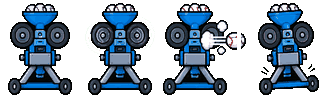
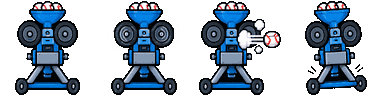
손잡다 야구: 점검 반영 (불펜 등판, 3루타 그림, 경기 끝 미리 보임, 미니게임 도루 귀루·코스·번트, 가방 나눔, 모자 옆머리, 얼굴 부위·동작 그림 다시 자르기, 건물 그림, 구속 훈련), 캐시 v92
Claude-Session: https://claude.ai/code/session_01AtpkBHbF1Q23UFzgPgc2M4

diff --git a/baseball/js/mini.js b/baseball/js/mini.js
@@ -153,6 +153,9 @@ function mgPrep(){
   const PT = [['빠른 공', 740, 840], ['보통 공', 860, 960], ['느린 커브', 1000, 1120]];
   const p = PT[Math.floor(Math.random() * PT.length)];
   st.pitch = { name: p[0], T: Math.round(mgRand(p[1], p[2])) };
+  // 공이 오는 코스: 다섯 군데 가운데 무작위 (동그라미도 그 자리로), 커브는 휘어 들어옴
+  st.aim = [[44, 70], [52, 73], [60, 70], [46, 77], [58, 77]][Math.floor(Math.random() * 5)];
+  st.bend = p[0] === '느린 커브' ? (Math.random() < 0.5 ? -7 : 7) : 0;
   if(st.g === 'bat'){
     st.loc = Math.floor(Math.random() * 3);
     const h = Math.random() < 0.65 ? st.loc : Math.floor(Math.random() * 3);
@@ -175,7 +178,7 @@ function mgPlay(){
   if(st.phase === 'end') return { ...base, q:`${g.n}${g.unit} 모두 끝났습니다. 합계 ${st.score}점. 1번을 누르면 결과를 봅니다.`, opts:[{ n:1, key:'k1', t:'결과 보기', act: v => mgFinish(v) }] };
   if(st.phase === 'live'){
     const lab = { bat:'스윙!', bunt:'번트!', steal:'뛰기!' }[st.g], k = st.g === 'bat' ? 1 : 3;
-    const q = st.g === 'steal' ? '투수를 읽으세요. 둥 소리에 바로 누르고, 딱딱 소리에는 참으세요.' : '삐 소리에 맞춰 누르세요.';
+    const q = st.g === 'steal' ? `투수를 읽으세요. 둥 소리(투구)에 바로 누르면 2루로 뜁니다.${st.lead ? ' 딱딱 소리(견제)가 나면 바로 눌러 귀루하세요.' : ' 짧은 리드라 견제는 그냥 참으면 됩니다.'}` : '삐 소리에 맞춰 누르세요.';
     return { ...base, q, opts: Array.from({ length:k }, (_, i) => ({ n: i + 1, key:'k' + (i + 1), t: lab, act: () => mgTap() })) };
   }
   if(st.g === 'bat'){
@@ -224,7 +227,10 @@ function mgPitchStart(){
 function mgTap(){
   const r = MG.run; if(!r || r.done) return;
   if(UI.make !== mgPlay){ mgStop(); return; }
-  if(r.g === 'steal') mgStealTap(performance.now()); else mgPitchEnd(performance.now());
+  const now = performance.now();
+  if(r.g === 'steal'){ mgStealTap(now); return; }
+  if(now < r.rel) return;   // 공을 놓기 전에 누른 것은 무시 (헛스윙으로 치지 않음)
+  mgPitchEnd(now);
 }
 function mgPitchEnd(tap){
   const r = MG.run, st = MG.st; if(!r || r.done || !st) return;
@@ -281,7 +287,7 @@ function mgBuntTier(e){
   if(e == null) return 'none';
   if(e === -1) return 'miss';
   const a = Math.abs(e) / mgTol();
-  return a <= 0.06 ? 'perfect' : a <= 0.12 ? 'good' : a <= 0.2 ? 'weak' : e < 0 ? 'miss' : 'pop';
+  return a <= 0.09 ? 'perfect' : a <= 0.18 ? 'good' : a <= 0.3 ? 'weak' : e < 0 ? 'miss' : 'pop';   // 번트는 공을 갖다 대기만 하면 되므로 폭을 넓게
 }
 function mgBuntRes(e, dir, def, timed = false, tier0){
   const tier = tier0 || mgBuntTier(e), max = mgBuntMax(dir, def), zone = ['1루 선상', '3루 선상', '투수 앞'][dir];
@@ -309,8 +315,10 @@ const MG_TELL = {
   pitch:['투수가 포수 사인에 고개를 끄덕이고 홈 쪽으로 어깨를 닫습니다.', '투수의 앞다리 무릎이 안쪽으로 모입니다.', '투수가 1루는 보지 않고 포수 미트만 봅니다.'],
   pick:['투수가 1루 쪽을 힐끗 봅니다.', '투수의 뒷발 뒤꿈치가 살짝 들립니다.', '투수가 공을 쥔 채 유난히 오래 멈춥니다.'],
 };
-const MG_LEAD_T = [3.30, 3.20, 3.10];   // 리드별 2루까지 걸리는 시간(초, 반응 시간 빼고)
-const MG_LEAD_RISK = [0, 0.05, 0.2];   // 견제가 오면 귀루하다 잡힐 확률
+const MG_LEAD_T = [3.15, 3.02, 2.90];   // 리드별 2루까지 걸리는 시간(초, 반응 시간 빼고)
+const MG_LEAD_RISK = [0, 0.03, 0.1];   // 고르기로 하기: 견제가 오면 귀루하다 잡힐 확률
+// 타이밍으로 하기: 견제가 오면 단추가 '귀루!'로 바뀌고 이 시간(초) 안에 누르면 세이프. 짧은 리드는 누르지 않아도 세이프
+const MG_BACK_WIN = [null, 0.75, 0.5];
 function mgMoves(){
   const n = mgPickW([45, 35, 20]), out = [];
   for(let i = 0; i < n; i++) out.push({ type:'pick' }); out.push({ type:'pitch' });
@@ -335,32 +343,34 @@ function mgLead(lead, via){
     run.timers.push(setTimeout(() => {
       if(MG.run !== run || run.done) return;
       run.cue = m.type; run.cueAt = m.at; run.mi = i;
-      if(m.type === 'pick') run.timers.push(setTimeout(() => mgPickoffEnd(run), 500 * sc));
+      if(m.type === 'pick') run.timers.push(setTimeout(() => mgPickoffEnd(run, i), (MG_BACK_WIN[run.lead] ? MG_BACK_WIN[run.lead] * 1000 : 500) * sc));
       else run.timers.push(setTimeout(() => mgStealEnd(run, null), (fast ? 450 : 1100)));
     }, Math.max(0, m.at - performance.now())));
   });
   st.phase = 'live';
   rerender();
 }
-// 견제가 지나감: 크게 리드했으면 가끔 잡힘, 아니면 1점
-function mgPickoffEnd(run){
+// 견제가 지나감: 귀루 단추를 제때 눌렀으면(짧은 리드는 저절로) 세이프 1점(큰 리드는 2점), 아니면 견제사
+function mgPickoffEnd(run, i){
   if(MG.run !== run || run.done) return;
-  if(Math.random() < MG_LEAD_RISK[run.lead]){ mgStealOut(run, `견제구! ${MG_LEAD[run.lead]} 리드라 귀루가 늦어 아웃.`); return; }
-  MG.st.survived++;
+  const backed = (run.backed || {})[i];
+  if(!backed && MG_BACK_WIN[run.lead]){ mgStealOut(run, `견제구! 귀루가 늦어 아웃. ${MG_LEAD[run.lead]} 리드에서는 견제가 오면 바로 눌러야 합니다.`); return; }
+  MG.st.survived += run.lead === 2 ? 2 : 1;
   run.cue = 'reset';
 }
 function mgStealTap(t){
   const run = MG.run, sc = mgFast() ? 0.12 : 1;
   // 시각으로 따짐 (타이머가 조금 늦게 와도 같은 판정): cur 이미 나온 마지막 동작 · next 아직 안 나온 동작
   const idx = run.moves.findIndex(m => m.at > t);
-  const cur = idx === -1 ? run.moves[run.moves.length - 1] : idx > 0 ? run.moves[idx - 1] : null, next = idx === -1 ? null : run.moves[idx];
+  const ci = idx === -1 ? run.moves.length - 1 : idx - 1, cur = ci >= 0 ? run.moves[ci] : null, next = idx === -1 ? null : run.moves[idx];
   if(cur && cur.type === 'pitch'){ mgStealEnd(run, (t - cur.at) / 1000); return; }
-  if(cur && cur.type === 'pick' && t < cur.at + 1200 * sc){ mgStealOut(run, '견제구인데 뛰었습니다. 견제사.'); return; }
-  // 아직 다음 동작 전: 견제가 올 차례면 걸리고, 투구 직전이면 미리 스타트(아주 일찍이면 들킴)
+  // 견제 중: 누르면 귀루 (제때면 세이프). 이미 귀루했으면 무시
+  if(cur && cur.type === 'pick' && t < cur.at + 1400 * sc){ (run.backed ||= {})[ci] = true; run.backAt = t; return; }
+  // 아직 다음 동작 전: 투구 직전이면 미리 스타트, 그보다 이르면 무시 (견제를 기다리는 중의 실수로 아웃되지 않게)
   if(!next){ mgStealEnd(run, null); return; }
-  if(next.type === 'pick'){ mgStealOut(run, '먼저 움직였다가 견제에 걸렸습니다.'); return; }
+  if(next.type === 'pick') return;
   const early = next.at - t;
-  if(early > 350 * sc){ mgStealOut(run, '너무 일찍 뛰어 투수에게 들켰습니다. 아웃.'); return; }
+  if(early > 350 * sc) return;
   mgStealEnd(run, -Math.min(0.15, early / 1000 / sc));
 }
 function mgStealOut(run, text){
@@ -382,7 +392,7 @@ function mgStealRes(lead, rt, timed){
   const runner = MG_LEAD_T[lead] + Math.max(-0.15, rt) * 1.05, catcher = mgRand(3.3, 3.6), margin = catcher - runner;
   const start = !timed ? '' : rt < 0.02 ? '스타트가 아주 빨랐습니다! ' : `반응 ${mgSec(rt * 1000)}초. `;
   if(margin <= 0) return { g:'steal', k:'out', pts: 0, lead, rt, margin, text:`${start}포수의 송구가 빨랐습니다. 2루에서 아웃.` };
-  const pts = 6 + Math.min(9, Math.round(margin * 40)) + sv;
+  const pts = 6 + Math.min(9, Math.round(margin * 40)) + sv + lead;
   return { g:'steal', k:'safe', pts, lead, rt, margin, text:`${start}2루 ${margin > 0.15 ? '여유 있게' : margin < 0.05 ? '간발의 차로' : ''} 세이프! ${pts}점.${bonus}`.replace('  ', ' ') };
 }
 function mgStealRead(run, via){

diff --git a/baseball/js/skin-mini.js b/baseball/js/skin-mini.js
@@ -32,13 +32,17 @@ function mgThumb(g, cls = ''){
 const mgRecChip = g => { const a = mgBest(g, 'tm'), b = mgBest(g, 'pick'); return a || b ? `${a ? `<em>최고 ${a.best}점</em>` : ''}${b ? `<em class="c">고르기 ${b.best}점</em>` : ''}` : '<em class="no">기록 없음</em>'; };
 
 /* ---------- 미니게임 목록 ---------- */
+// 팀 색으로 칠한 그림을 미리 만들어 둠: 처음 보이는 순간(슬라이딩 등)에 칠하지 않은 그림이 잠깐 보였다가 색이 바뀌지 않게
+function mgPreload(){ const col = mgCol(); ['batter', 'runner-s', 'run-b', 'slide', 'fielder-set', 'pitcher', 'pitcher-pick', 'mg-machine', 'mg-cards'].forEach(n => skTint(n, col)); }
 function mgHomeSkin(S){
+  mgPreload();
   const cards = (S.opts || []).filter(o => !o.hide && MG_GAMES[o.key]).map(o => `<button type="button" class="mg-card" data-sk="opt" data-n="${o.n}">${mgThumb(o.key)}<span class="tx"><b>${esc(o.t)}</b><small>${esc(MG_GAMES[o.key].short)}</small><span class="mg-rc">${mgRecChip(o.key)}</span></span></button>`).join('');
   const out = (S.opts || []).find(o => o.key === 'out');
   return `<div class="mg-cards">${cards}</div>${out ? `<div class="mback"><button type="button" class="gb b" data-sk="opt" data-n="${out.n}">${skIco('back')}${esc(out.t)}</button></div>` : ''}`;
 }
 /* ---------- 설명 화면 ---------- */
 function mgStartSkin(S){
+  mgPreload();
   const g = MG_GAMES[S.g], op = k => (S.opts || []).find(o => o.key === k && !o.hide);
   const tm = op('tm'), pk = op('pick'), hr = op('hear'), ls2 = op('list');
   const heard = (S.say || []).length && (S.say[0].s || S.say[0]) !== g.rules[0] ? `<div class="crmsg">${S.say.map(l => `<p>${esc(l.s || l)}</p>`).join('')}</div>` : '';
@@ -60,7 +64,7 @@ function mgPlaySkin(S){
   const stage = st.g === 'bat' ? mgCage(st) : st.g === 'bunt' ? mgBuntField(st) : mgStealField(st);
   // 알림 줄: 지금 할 일 또는 방금 결과
   const last = st.last, fresh = last && !live;
-  const msg = st.phase === 'read' && !fresh ? '투수의 움직임을 읽고 뛸지 고르세요.' : live ? (st.g === 'steal' ? '둥(투구)에 뛰고, 딱딱(견제)에는 참으세요!' : '삐 소리 · 노란 동그라미에 맞춰 누르세요!')
+  const msg = st.phase === 'read' && !fresh ? '투수의 움직임을 읽고 뛸지 고르세요.' : live ? (st.g === 'steal' ? (st.lead ? '투구면 뛰기! 견제가 오면 단추가 귀루!로 바뀝니다. 바로 누르세요.' : '투구(둥)에 바로 뛰세요! 짧은 리드라 견제는 참으면 됩니다.') : '삐 소리 · 노란 동그라미에 맞춰 누르세요!')
     : fresh ? last.text : st.g === 'bat' ? (st.mode === 'tm' ? '공 던지기를 누르면 피칭 머신이 던집니다.' : `코치: "${st.hint}"`) : st.g === 'bunt' ? mgDefText(st.def) + ' 방향을 고르세요.' : st.phase === 'read' ? '투수의 움직임을 읽고 뛸지 고르세요.' : '리드를 고르면 투수가 세트에 들어갑니다.';
   const msgCls = fresh ? (last.pts >= 10 ? 'top' : last.pts > 0 ? 'ok' : 'bad') : live ? 'live' : '';
   if(live && !SKM.raf) SKM.raf = requestAnimationFrame(mgTick);
@@ -97,11 +101,12 @@ function mgCage(st){
   if(L && !live && L.g === 'bat'){
     f = L.k === 'take' ? 0 : 2;
     const x1 = 50 + (L.x || 0) * 42, end = { hr:[x1, -8, .25], b3:[x1, 6, .3], b2:[x1, 10, .32], hit:[50 + (L.x || 0) * 34, 26, .4], foul:[L.e != null && L.e < 0 ? -6 : 106, 58, .5], whiff:[50, 112, 1.7], take:[50, 112, 1.7] }[L.k];
-    fx = `<span class="mg-fly k-${L.k}" style="--x0:${MGC.hit[0]}%;--y0:${MGC.hit[1]}%;--x1:${end[0]}%;--y1:${end[1]}%;--s1:${end[2]}"></span>`
+    fx = `<span class="mg-fly k-${L.k}" style="--x0:${(st.aim || MGC.hit)[0]}%;--y0:${(st.aim || MGC.hit)[1]}%;--x1:${end[0]}%;--y1:${end[1]}%;--s1:${end[2]}"></span>`
       + (MG_BAN_ROW[L.k] != null ? mgBan(MG_BAN_ROW[L.k]) : `<span class="mg-tx">지켜봄</span>`) + (L.dist ? `<b class="mg-dist">${L.dist}m</b>` : '') + (L.tier === 'perfect' ? '<b class="mg-perf">딱 맞음!</b>' : '');
   }
   const tag = !live && st.phase !== 'end' ? `<span class="mg-tag">${esc(st.mode === 'tm' ? '다음 공 · ' + st.pitch.name : '노릴 코스를 고르세요')}</span>` : '';
-  return `<div class="mg-st cage" id="mgSt"><span class="mg-ring${live ? ' on' : ''}" id="mgRing" style="${mgAt(MGC.hit)}"></span>
+  const aim = st.aim || MGC.hit;
+  return `<div class="mg-st cage" id="mgSt"><span class="mg-ring${live ? ' on' : ''}" id="mgRing" style="${mgAt(aim)}"></span>
     ${mgSpr('batter', live ? 0 : f, 4, 1, 0, 'bat-me' + (L && !live && f ? ' swung' : ''), '', 'mgBat')}
     ${mgSpr('mg-machine', live ? 1 : 0, 4, 1, 0, 'mach', mgAt([MGC.mach[0], MGC.mach[1] + 6]), 'mgMach')}
     <span class="mg-ball" id="mgBall" style="${mgAt(MGC.mach)}"></span>${fx}${tag}</div>`;
@@ -144,6 +149,7 @@ function mgStealField(st){
     } else fx = `<span class="mg-tx">출발 못함${L.pts ? ` +${L.pts}` : ''}</span>`;
   }
   return `<div class="mg-st fld steal" id="mgSt">${mgFielder([MGF.b1[0] + 6, MGF.b1[1] + 7])}${mgFielder([58, 30], 'ss')}${mgFielder([50, 95], 'c')}
+    ${live ? mgSpr('slide', 2, 4, 1, 0, 'run-me', mgAt([MGF.b1[0] - 1, MGF.b1[1] + 1]) + 'visibility:hidden;', 'mgDive') : ''}
     ${mgSpr('pitcher', 0, 4, 3, 0, 'pit', mgAt([MGF.mound[0], MGF.mound[1] + 1]), 'mgPit')}${mgSpr('pitcher-pick', 0, 4, 1, 0, 'pick', mgAt([MGF.mound[0] + 1, MGF.mound[1] + 1]) + 'visibility:hidden;', 'mgPick')}${runner}
     <span class="mg-ball sm" id="mgBall" style="${mgAt(MGF.mound)};opacity:0"></span>${fx}
     ${live ? '<span class="mg-cue" id="mgCue"></span>' : ''}</div>`;
@@ -163,8 +169,8 @@ function mgTickPitch(r, now){
   // 피칭 머신: 던지기 전 바퀴 돌기(1) → 발사(2) → 반동(3) → 멈춤(0)
   const mach = $('#mgMach'); if(mach){ const f = k < 0 ? 1 : k < 0.12 ? 2 : k < 0.35 ? 3 : 0; mach.style.backgroundPosition = `${f * 100 / 3}% 0%`; }
   if(k < 0){ ball.style.opacity = '0'; return; }
-  const kk = Math.min(k, 1.5), a = bat ? MGC.mach : [50, 53], b = bat ? MGC.hit : [50, 83];
-  const p = mgLerp(a, b, kk);
+  const st = MG.st || {}, kk = Math.min(k, 1.5), a = bat ? MGC.mach : [50, 53], b = bat ? (st.aim || MGC.hit) : [50, 83];
+  const p = mgLerp(a, b, kk); if(bat && st.bend) p[0] += Math.sin(Math.min(1, kk) * Math.PI * 0.9) * st.bend;   // 커브는 옆으로 휘어 들어옴
   ball.style.opacity = '1'; ball.style.left = p[0] + '%'; ball.style.top = p[1] + '%';
   ball.style.transform = `translate(-50%, -50%) scale(${bat ? 0.3 + kk * 1.1 : 0.7 + kk * 0.6})`;
   if(ring) ring.classList.toggle('hot', Math.abs(k - 1) < 0.1);
@@ -187,6 +193,11 @@ function mgTickSteal(r, now){
     if(picking) pk.style.backgroundPosition = `${(t < 200 ? 1 : t < 450 ? 2 : t < 700 ? 3 : 0) * 100 / 3}% 0%`; }
   if(ball){ ball.style.opacity = bp ? '1' : '0'; if(bp){ ball.style.left = bp[0] + '%'; ball.style.top = (bp[1] - 4) + '%'; } }
   if(run) run.style.backgroundPosition = `${Math.floor(now / 380) % 2 ? 100 / 3 : 0}% 0%`;
+  // 견제가 오는 동안: 단추가 '귀루!'로 바뀜. 누르면 주자가 1루로 슬라이딩(귀루)
+  const btn = document.querySelector('.mg-go.tap'), back = !!(m && m.type === 'pick' && (now - m.at) / sc < 900);
+  if(btn){ btn.classList.toggle('back', back); const b = btn.querySelector('b'), sm = btn.querySelector('small'); if(b) b.textContent = back ? '귀루!' : '뛰기!'; if(sm) sm.textContent = back ? '견제! 빨리 눌러 1루로' : '둥 소리(투구)에 바로'; }
+  const dv = $('#mgDive'), ri = MG.run && MG.run.moves ? MG.run.moves.indexOf(m) : -1, backed = back && MG.run && MG.run.backed && MG.run.backed[ri];
+  if(dv){ dv.style.visibility = backed ? 'visible' : 'hidden'; if(run) run.style.visibility = backed ? 'hidden' : 'visible'; }
   if(cue){ cue.textContent = word; cue.className = 'mg-cue' + (word ? ' on ' + (m.type === 'pick' ? 'pk' : 'pt') : ''); }
 }
 

diff --git a/baseball/js/skin-hub.js b/baseball/js/skin-hub.js
@@ -147,7 +147,8 @@ function crShop2(S){
     return `<button type="button" class="ic${x === id ? ' on' : ''}${own ? ' own' : ''}${poor ? ' poor' : ''}" data-sk="set" data-k="it" data-v="${x}" aria-pressed="${x === id}" aria-label="${esc((it || g).name)}">${itemIco(lifeIdx(x))}<small>${own ? '보유' : esc(won(pr).replace(' 원', ''))}</small>${g && c.goods[x] ? `<em>${c.goods[x]}</em>` : ''}</button>`; };
   const it = itemOf(id), price = (it || goodsOf(id)).price;
   const buy = hubOpt(S, 'buy'), eq = hubOpt(S, 'buyeq'), bag = hubOpt(S, 'bag');
-  return `${crRes(L)}${lifeMsg(S)}<div class="ig">${S.ids.map(cell).join('')}</div>
+  const gear = S.ids.filter(x => itemOf(x)), goods = S.ids.filter(x => !itemOf(x));
+  return `${crRes(L)}${lifeMsg(S)}<p class="ig-h">장비</p><div class="ig">${gear.map(cell).join('')}</div><p class="ig-h">소모품</p><div class="ig">${goods.map(cell).join('')}</div>
     ${lifeDetail(id, c, p, `<strong class="idt-pr${c.money < price ? ' poor' : ''}">${esc(won(price))}</strong>`)}
     <div class="hb c${[buy, eq, bag].filter(Boolean).length} act">${[buy, eq, bag].filter(Boolean).map(o => `<button type="button" class="hb-b${o.key === 'buyeq' || (o.key === 'buy' && !eq) ? ' pri' : ''}${o.key === 'buy' && it && c.owned.includes(it.id) ? ' off' : ''}" data-sk="opt" data-n="${o.n}">${hubIco(o.key === 'bag' ? 'bag' : o.key === 'buyeq' ? 'play' : 'go')}<b>${esc(o.t)}</b></button>`).join('')}</div>`;
 }
@@ -155,17 +156,19 @@ function crBag2(S){
   const L = crL(); if(!L || !L.career) return null;
   const c = L.career, p = myP(L), col = crColor(L), id = BAG_SEL;
   const slot = sl => { const x = c.equip && c.equip[sl], it = x && itemOf(x), st = it ? gearState(c, x) : null;
-    return it ? `<button type="button" class="slot on${x === id ? ' sel' : ''}" data-sk="set" data-k="it" data-v="${x}"><small>${esc(SLOT_NAME[sl])}</small>${itemIco(ITEMS.indexOf(it))}<span class="dur"><i style="width:${st.dur}%"></i></span>${st.lv ? `<em>+${st.lv}</em>` : ''}</button>`
+    return it ? `<button type="button" class="slot on${x === id ? ' sel' : ''}" data-sk="set" data-k="it" data-v="${x}"><small>${esc(SLOT_NAME[sl])}</small><span class="sl-i">${itemIco(ITEMS.indexOf(it))}${st.lv ? `<em>+${st.lv}</em>` : ''}</span><span class="dur"><i style="width:${st.dur}%"></i></span></button>`
       : `<div class="slot"><small>${esc(SLOT_NAME[sl])}</small><span class="empty">비어 있음</span></div>`; };
-  const cells = S.ids.map(x => { const it = itemOf(x), on = it && c.equip[it.slot] === x;
-    return `<button type="button" class="ic${x === id ? ' on' : ''}${on ? ' eq' : ''}" data-sk="set" data-k="it" data-v="${x}" aria-pressed="${x === id}" aria-label="${esc((it || goodsOf(x)).name)}">${itemIco(lifeIdx(x))}${it ? (on ? '<small>장착</small>' : '') : `<em>${c.goods[x]}</em>`}</button>`; });
-  const n = Math.max(15, Math.ceil(cells.length / 5) * 5);
-  while(cells.length < n) cells.push('<span class="ic emp" aria-hidden="true"></span>');
+  // 장비와 소모품을 나눈 두 칸 (빈칸으로 줄을 채움)
+  const cell = x => { const it = itemOf(x), on = it && c.equip[it.slot] === x, lv = it ? gearState(c, x).lv : 0;
+    return `<button type="button" class="ic${x === id ? ' on' : ''}${on ? ' eq' : ''}" data-sk="set" data-k="it" data-v="${x}" aria-pressed="${x === id}" aria-label="${esc((it || goodsOf(x)).name)}">${itemIco(lifeIdx(x))}${it ? `${on ? '<small>장착</small>' : ''}${lv ? `<i class="lv">+${lv}</i>` : ''}` : `<em>${c.goods[x]}</em>`}</button>`; };
+  const fill = (list, min) => { const out = list.map(cell), n = Math.max(min, Math.ceil(out.length / 5) * 5); while(out.length < n) out.push('<span class="ic emp" aria-hidden="true"></span>'); return out.join(''); };
+  const gear = S.ids.filter(x => itemOf(x)), goods = S.ids.filter(x => !itemOf(x));
   const acts = ['equip', 'repair', 'enh', 'use', 'shop'].map(k => hubOpt(S, k)).filter(Boolean);
   const ico = { equip:'play', repair:'set', enh:'rec', use:'play', shop:'bag' };
   return `${crRes(L)}${lifeMsg(S)}
     <div class="bag2"><div class="bag-me">${crFace(crFaceOf(L, c, p), col, 'mid')}<div class="slots">${['bat', 'glove', 'shoes', 'wrist', 'acc'].map(slot).join('')}</div></div></div>
-    <div class="ig bagi">${cells.join('')}</div>
+    <p class="ig-h">장비 ${gear.length}개</p><div class="ig bagi">${fill(gear, 10)}</div>
+    <p class="ig-h">소모품</p><div class="ig bagi">${fill(goods, 5)}</div>
     ${lifeDetail(id, c, p)}
     <div class="hb c${Math.min(4, acts.length)} act">${acts.map(o => `<button type="button" class="hb-b${o.key === 'equip' || o.key === 'use' ? ' pri' : ''}" data-sk="opt" data-n="${o.n}">${hubIco(ico[o.key])}<span class="tx"><b>${esc(o.t)}</b>${o.s ? `<small>${esc(o.s)}</small>` : ''}</span></button>`).join('')}</div>`;
 }

diff --git a/baseball/css/skin.css b/baseball/css/skin.css
@@ -1016,3 +1016,18 @@ html.skin .sg{ font-size:.82rem; padding:3px 8px; } html.skin .sg strong{ font-s
 html.skin .hb-b{ align-items:center; }
 html.skin .crf.pic{ background-size:cover !important; background-position:center !important; border-radius:22%; box-shadow:0 0 0 2px #fff, 0 2px 0 rgba(0,0,0,.3); }
 html.skin .crf.np-f{ width:2.4rem; height:2.4rem; flex:none; margin:-4px 0 -4px -4px; }
+/* 가방·용품점 칸: 칸 자체가 흰 판이라 아이콘에는 따로 흰 상자를 두지 않음 (상자 아래가 글씨에 덮여 잘려 보이던 문제), 표시는 모서리 꼬리표 */
+html.skin .ic .iico, html.skin .slot .iico, html.skin .idt .iico{ background-color:transparent; border:0; box-shadow:none; border-radius:0; }
+html.skin .ic{ padding:2px; aspect-ratio:1; } html.skin .ic .iico{ width:86%; }
+html.skin .ic small{ position:absolute; left:50%; bottom:2px; transform:translateX(-50%); padding:0 5px; border-radius:999px; background:rgba(255,255,255,.9); font-size:.56rem; line-height:1.4; }
+html.skin .ic .lv{ position:absolute; top:2px; right:3px; font-style:normal; font-size:.6rem; font-weight:900; color:#fff; background:#e2501a; border-radius:999px; padding:0 5px; }
+html.skin .ig-h{ margin:0 0 -3px 2px; font-size:.74rem; font-weight:900; color:#fff; text-shadow:0 1px 0 #0b3a8c; }
+html.skin .bag2 .slot{ display:grid; grid-template-rows:auto 1fr auto; justify-items:center; align-items:center; gap:1px; }
+html.skin .bag2 .slot small{ white-space:nowrap; overflow:hidden; max-width:100%; }
+html.skin .sl-i{ position:relative; display:flex; align-items:center; }
+html.skin .bag2 .slot .sl-i em, html.skin .slot .sl-i em{ position:static; margin-left:1px; font-style:normal; font-size:.6rem; font-weight:900; color:#fff; background:#e2501a; border-radius:999px; padding:0 3px; align-self:flex-start; }
+html.skin .bag2 .slot .dur{ width:80%; }
+/* 마을 건물 창: 위에 건물 그림 */
+html.skin .bld{ position:relative; aspect-ratio:16 / 9; margin-bottom:8px; border-radius:14px; border:3px solid var(--line); background-size:cover; background-position:center; image-rendering:pixelated; box-shadow:0 3px 0 var(--line2); }
+html.skin .bld span{ position:absolute; left:8px; bottom:6px; padding:2px 10px; border-radius:999px; background:rgba(10, 28, 70, .8); color:#fff; font-size:.8rem; font-weight:900; }
+html.skin .bag2 .slot .sl-i em, html.skin .slot .sl-i em{ white-space:nowrap; line-height:1.3; } html.skin .bag2 .slot .iico{ width:1.7rem; height:1.7rem; }

diff --git a/baseball/js/skin.js b/baseball/js/skin.js
@@ -181,6 +181,7 @@ function listHTML(lines, cls = ''){
 function skinHudRefresh(){
   const ov = $('#skOv'); if(!ov || !VIEW.gfx || !G || !isGame(UI.S)) return;
   ov.innerHTML = skOvHTML(UI.S, false);
+  if(G.over) skinBody();   // 경기 끝: 뜸 들이기가 끝난 뒤에 경기 끝 단추를 그림
 }
 // 그림 위 점수판·선수 상자·경기 끝 카드·날씨 아이콘. 명장면 다시 보기(highlights.js)는 그 장면의 점수판만
 function skOvHTML(S, hold){
@@ -251,12 +252,14 @@ function playLogHTML(S){
 function deckHTML(S){
   const notes = S.note ? `<div class="dk-note">${S.note.map(l => `<p>${esc(l)}</p>`).join('')}</div>` : '';
   if(S.kind === 'pitch' && !G.over) return deckHead(S, true) + pitchDeck(S);
-  if(S.kind === 'bat' && !G.over) return deckHead(S, true) + playLogHTML(S) + batDeck(S);
+  if(S.kind === 'bat' && !G.over) return deckHead(S, true) + batDeck(S);   // 화면 보며 하기는 글 중계 기록을 따로 두지 않음 (결과는 위 한 줄과 그림으로)
   if(S.kind === 'roster') return deckHead(S) + rosterHTML(S.ti) + optsHTML(S, true);
   if(S.kind === 'log') return deckHead(S) + listHTML(S.say || [], 'log') + optsHTML(S, true);
   // 그 밖의 경기 화면: 위에 질문, 가운데 지난 기록(남는 자리), 아래쪽 엄지 닿는 곳에 단추
+  // 마지막 타구의 결과를 보여 주기 전(뜸 들이는 동안)에는 경기 끝 화면을 미리 보이지 않음 (끝나면 skinHudRefresh가 다시 그림)
+  if(G.over && document.documentElement.classList.contains('hold')) return '';
   if(G.over && typeof endDeckHTML === 'function') return endDeckHTML(S) + notes;   // 경기 끝: 점수 카드는 그림 위, 아래는 줄 점수표와 같은 크기 단추
-  const mid = G.over ? resultBanner() + lineScoreHTML() : S.grid || S.sub ? '' : playLogHTML(S);
+  const mid = G.over ? resultBanner() + lineScoreHTML() : '';
   return deckHead(S, !G.over && !G.pre && !S.sub) + mid + notes + (S.grid ? gridHTML(S) : optsHTML(S, true));
 }
 // 명단: 타자(오늘 기록)와 투수

diff --git a/baseball/sw.js b/baseball/sw.js
@@ -1,4 +1,4 @@
-const CACHE = 'baseball-v91';
+const CACHE = 'baseball-v92';
 const CORE = ['./', './index.html', './manifest.webmanifest', './icon-192.png', './icon-512.png', './icon-maskable-512.png',
   './css/app.css', './css/skin.css', './css/skin-rank.css', './css/skin-mini.css', './css/skin-show.css', './css/skin-awards.css', './css/skin-daily.css', './img/index.json', ...['bg-pitch', 'bg-field', 'pitcher', 'batter', 'catcher', 'fielder', 'banners', 'banners2', 'umpire', 'umpire-s', 'runner', 'tv', 'fielder2', 'runner-s', 'fielder-set', 'run-g', 'run-b', 'slide', 'run-f', 'run-k', 'cr-cage', 'cr-gym', 'cr-bullpen', 'cr-track', 'cr-room', 'cr-shop', 'cr-fansign', 'cr-rehab', 'cr-train', 'cr-life', 'cr-people', 'cr-props', 'icons', 'icons2', 'bg-pitch-n', 'bg-field-n', 'emblems', 'faces', 'cr-people2', 'cr-office', 'cr-camp', 'cr-stage', 'icons-menu', 'icons-play', 'awards', 'items', 'banners3', 'logo', 'hero', 'cr-town', 'cr-locker', 'cr-beach', 'icons-train', 'cr-parts', 'trophies', 'badges', 'cr-cabinet', 'cr-award', 'weather', 'wbands', 'cutin', 'mg-cards', 'mg-machine', 'pitcher-pick'].map(n => './img/' + n + '.png'),
   './js/util.js', './js/data.js', './js/engine.js', './js/playsim.js', './js/timeline.js', './js/ai.js', './js/league.js', './js/speech.js', './js/caster.js', './js/shell.js', './js/ui.js', './js/gfx.js', './js/net.js', './js/voice.js', './js/game.js', './js/manager.js', './js/league-ui.js', './js/office.js', './js/office-ui.js', './js/allstar.js', './js/career-grow.js', './js/career.js', './js/career-life.js', './js/career-story.js', './js/career-trust.js', './js/online.js', './js/net-rank.js', './js/rank.js', './js/center.js', './js/setup.js', './js/skin.js', './js/skin-career.js', './js/look.js', './js/skin-setup.js', './js/skin-hub.js', './js/skin-rank.js', './js/mini.js', './js/skin-mini.js', './js/cutin.js', './js/weather.js', './js/highlights.js', './js/badges.js', './js/awards-show.js', './js/skin-awards.js', './js/daily.js', './js/paper.js', './js/h2h.js', './js/skin-daily.js', './js/app.js',

diff --git a/baseball/js/ai.js b/baseball/js/ai.js
@@ -99,11 +99,28 @@ function aiSimpleDef(G){
   return rnd(G) < 0.4 ? 'nibble' : 'attack';
 }
 
+/* ---------- 육성: 내가 불펜 투수면 감독이 나를 씀 ----------
+   2군: 6회 시작(늦어도 7회)에 반드시 등판 · 1군: 7회부터 이닝 시작마다 접전(4점 차 이내)이면 30%, 선발이 지치면 35% (1군 경기의 60%쯤 등판).
+   (불펜 투수가 경기에 한 번도 나가지 못해 할 일이 없던 문제) */
+function focusRelief(G, ti, P, f, bench){
+  if(G.focusTeam !== ti) return false;
+  const me = bench.find(x => x.p.id === G.focus); if(!me || me.p.role === '마무리' || P.id === G.focus) return false;
+  const inningStart = G.outs === 0 && !G.bases.some(x => x != null), lead = leadFor(G, ti), late = G.innings >= 9 ? 7 : Math.max(2, G.innings - 2);
+  let go = false;
+  if(G.career && G.career.minor) go = inningStart && G.inning >= late - 1 && (G.inning >= late || rnd(G) < 0.6);
+  else if(inningStart && G.inning >= late) go = Math.abs(lead) <= 4 ? rnd(G) < 0.3 : rnd(G) < 0.12;
+  if(!go && f > 0.55) go = rnd(G) < (G.career && G.career.minor ? 0.7 : 0.35);
+  if(!go) return false;
+  swapPitcher(G, ti, me.i);
+  return true;
+}
+
 /* ---------- 감독 판단 (컴퓨터 수비 팀, 타석이 시작될 때) ---------- */
 function aiManage(G){
-  if(!detailed(G)) return;
+  if(!detailed(G) && !G.focus) return;   // 간단 모드는 투수를 바꾸지 않음 (육성 경기는 내 불펜 투수를 쓰려고 바꿈)
   const ti = 1 - batIdx(G), T = G.teams[ti], P = curPitcher(G), B = curBatter(G);
   const f = fatigue(P), bench = benchPitchers(G, ti);
+  if(G.focus != null && focusRelief(G, ti, P, f, bench)) return;
   const shelled = P.st.r >= (P.starter ? 5 : 3);
   const lead = leadFor(G, ti), closer = bench.find(x => x.p.role === '마무리'), others = bench.filter(x => x.p.role !== '마무리');
   const best = list => list.sort((a, b) => (b.p.ctl + b.p.stf) - (a.p.ctl + a.p.stf))[0];

diff --git a/baseball/js/gfx.js b/baseball/js/gfx.js
@@ -870,12 +870,12 @@ function drawSceneImg(sc, t){
     ball(128 + (fx - 128) * k2, 180 - h, 3 + h / 18);
   } else if(k === 'vel' || k === 'ctl' || k === 'stf'){
     bgImg('cr-bullpen');
-    // 왼쪽 마운드에서 저 멀리 포수 자리(홈플레이트)로
+    // 투수 그림은 앞모습(우리 쪽을 봄)이라, 공도 우리 쪽(화면 아래 포수 미트)으로 날아옴: 멀리서 작게 → 가까이 크게
     const pose = loop < 0.25 ? 'set' : loop < 0.45 ? 'lift' : loop < 0.55 ? 'throw' : 'follow';
-    const hx = 68, hy = 76, q = Math.max(0, Math.min(1, (loop - 0.5) / 0.4));
-    if(k === 'ctl'){ GX.ctx.strokeStyle = PAL.red; GX.ctx.lineWidth = 1.5; GX.ctx.beginPath(); GX.ctx.arc(hx, hy, 5, 0, 6.3); GX.ctx.stroke(); GX.ctx.lineWidth = 1; }
-    if(loop >= 0.5){ const bend = k === 'stf' ? Math.sin(q * Math.PI) * 18 : 0; ball(70 + (hx - 70) * q + bend, 150 + (hy - 150) * q, 4 - q * 2.5); }
+    const hx = 118, hy = 206, q = Math.max(0, Math.min(1, (loop - 0.5) / 0.4));
     big(() => drawPerson('pitcher', 0, 0, col, pose, false, 0), 70, 140, 1.6);
+    if(k === 'ctl'){ GX.ctx.strokeStyle = PAL.red; GX.ctx.lineWidth = 2; GX.ctx.beginPath(); GX.ctx.arc(hx, hy, 11, 0, 6.3); GX.ctx.stroke(); GX.ctx.lineWidth = 1; }
+    if(loop >= 0.5){ const bend = k === 'stf' ? Math.sin(q * Math.PI) * 22 : 0; ball(78 + (hx - 78) * q + bend, 112 + (hy - 112) * q, 2 + q * q * 7); }
     if(k === 'vel' && loop > 0.85){ R(176, 34, 70, 22, '#000'); pxText(`${140 + Math.floor((t * 7) % 15)}km`, 211, 38, PAL.red, 13); }
   } else if(k === 'rest'){
     bgImg('cr-room');

diff --git a/baseball/js/skin-career.js b/baseball/js/skin-career.js
@@ -133,9 +133,13 @@ function crSpot(id){
     return;
   }
   const os = t.keys.map(k => crOpt(UI.S, k)).filter(Boolean);
-  if(os.length === 1){ choose(os[0].n, 'click'); return; }
-  skinNote(null, `<div class="spotm">${os.map(o => `<button type="button" class="card" data-sk="opt" data-n="${o.n}"><span class="tx"><b>${esc(o.t)}</b>${o.s ? `<small>${esc(o.s)}</small>` : ''}</span></button>`).join('')}</div>`, t.name);
+  // 건물마다 그 건물 그림을 위에 보여 주고, 할 수 있는 일을 고름. 새 그림(img/cr-<건물>.png)이 없으면 비슷한 그림을 대신 씀
+  const L = crL(), col = L ? crColor(L) : '#3b82f6', img = BLD_IMG[id] || [];
+  const bg = img.map(n => `url(${skTint(n, col)})`).join(', ');
+  skinNote(null, `${bg ? `<div class="bld" style="background-image:${bg}" aria-hidden="true"><span>${esc(t.name)}</span></div>` : ''}<div class="spotm">${os.map(o => `<button type="button" class="card" data-sk="opt" data-n="${o.n}"><span class="tx"><b>${esc(o.t)}</b>${o.s ? `<small>${esc(o.s)}</small>` : ''}</span></button>`).join('')}</div>`, t.name);
 }
+// 건물 그림: [새 그림, 없을 때 쓰는 그림]
+const BLD_IMG = { office:['cr-office'], shop:['cr-shop'], plaza:['cr-plaza', 'cr-fansign'], academy:['cr-academy', 'cr-cage'], hospital:['cr-hospital', 'cr-rehab'], house:['cr-house', 'cr-room'], airport:['cr-airport', 'cr-beach'], mini:['cr-cage'] };
 
 /* ---------- 용품점 ---------- */
 function crShop(S){

diff --git a/baseball/js/career.js b/baseball/js/career.js
@@ -363,7 +363,7 @@ function careerMinorDay(via, listen){
   const L = CR(), c = C(L), p = myP(L), out = [];
   if(L.phase === 'season'){
     const { opp, o } = minorGameOpts(L, 'detail');
-    const G2 = newGame(o);
+    const G2 = newGame(o); G2.focus = c.id; G2.focusTeam = 0; G2.career = { minor:true };   // 불펜 투수면 감독이 등판시킴 (ai.js focusRelief)
     const mine = simMine(G2, c.id);
     out.push(`퓨처스리그 경기: ${teamName(L.my)} ${runsOf(G2.teams[0])} 대 ${runsOf(G2.teams[1])} ${teamName(opp)}.`);
     if(listen) out.push(...(mine.length ? mine : ['오늘은 내 차례가 없었습니다.']));
@@ -389,6 +389,7 @@ function careerSimDay(via, listen){
   const L = CR(), g = myGameToday(L), c = C(L); if(!g) return;
   if(typeof wxRainDay === 'function' && wxRainDay(L, g, via)) return;   // 우천 취소 (weather.js)
   const G2 = newGame(leagueGameOpts(L, g.a, g.h, ['cpu', 'cpu'], listen ? 'detail' : 'manager', 'pitch'));
+  G2.focus = c.id; G2.focusTeam = g.a === L.my ? 0 : 1;
   const mine = simMine(G2, c.id);
   const out = [`${g.label || `${L.day + 1}일째`}: ${teamName(g.a)} ${runsOf(G2.teams[0])} 대 ${runsOf(G2.teams[1])} ${teamName(g.h)}.`];
   if(listen) out.push(...(mine.length ? mine : ['오늘은 내 차례가 없었습니다.']));

diff --git a/baseball/js/look.js b/baseball/js/look.js
@@ -83,6 +83,16 @@ function lookURL(look, color, letter = ''){
     part(hv, LOOK_ROW.hair, l.hair);
     // 모자 옆으로 가늘게 삐져나온 가닥까지 지우도록 열마다 양옆 4칸 안의 가장 낮은 모자 줄을 씀
     if(hatBot) hatBot.forEach((_, xx) => { let y = -1; for(let k = Math.max(0, xx - 4); k <= Math.min(C - 1, xx + 4); k++) y = Math.max(y, hatBot[k]); if(y > 0) h.clearRect(xx, 0, 1, y - 1); });
+    // 모자 바깥 양옆: 모자 가장자리(챙 끝)보다 높이 튀어나온 머리카락도 지움 (그 아래로 내려오는 옆머리·긴 머리는 남김)
+    if(hatBot){
+      const xs = hatBot.map((y, x) => y > 0 ? x : -1).filter(x => x >= 0);
+      if(xs.length){
+        const x0 = xs[0], x1 = xs[xs.length - 1], edge = (a, b) => Math.max(...hatBot.slice(a, b + 1));
+        const yL = edge(x0, x0 + 5), yR = edge(x1 - 5, x1);
+        if(yL > 0) h.clearRect(0, 0, x0, yL - 1);
+        if(yR > 0) h.clearRect(x1 + 1, 0, C - x1 - 1, yR - 1);
+      }
+    }
     const col = HAIR_COLORS[l.hc];
     if(col){   // 머리색: 어두운 점의 밝기를 그 색의 명암으로 (윤곽선은 그대로 어두움)
       const d = h.getImageData(0, 0, C, C), p = d.data, H = [1, 3, 5].map(j => parseInt(col.slice(j, j + 2), 16));

diff --git a/baseball/css/skin-mini.css b/baseball/css/skin-mini.css
@@ -158,5 +158,7 @@ html.skin .sk-body.f3 .mg-res .mg-dots, html.skin .sk-body.f3 .mg-rh small{ disp
 html.skin .spot[data-spot="mini"] .sign{ background:linear-gradient(180deg, #ff8a2a, #d2560f); }
 /* 받은 그림: 카드(mg-cards.png 3칸), 피칭 머신(mg-machine.png 4칸), 견제 투수(pitcher-pick.png 4칸) */
 html.skin .mg-thumb.t-img{ background-size:300% 100%; background-repeat:no-repeat; background-color:#2a5bb8; aspect-ratio:1; image-rendering:pixelated; }
-html.skin .mg-spr.mach{ width:15%; aspect-ratio:80 / 96; z-index:1; }
-html.skin .mg-spr.pick{ width:10%; aspect-ratio:80 / 96; z-index:2; }
+html.skin .mg-spr.mach{ width:17%; aspect-ratio:1; z-index:1; }
+html.skin .mg-spr.pick{ width:12%; aspect-ratio:1; z-index:2; }
+html.skin .mg-go.tap.back{ background:linear-gradient(180deg, #6cc3ff, #1a62c9) !important; border-color:#0d3f8f !important; animation:mgBack .25s ease-in-out infinite alternate; }
+@keyframes mgBack{ to{ transform:scale(1.04); } }
